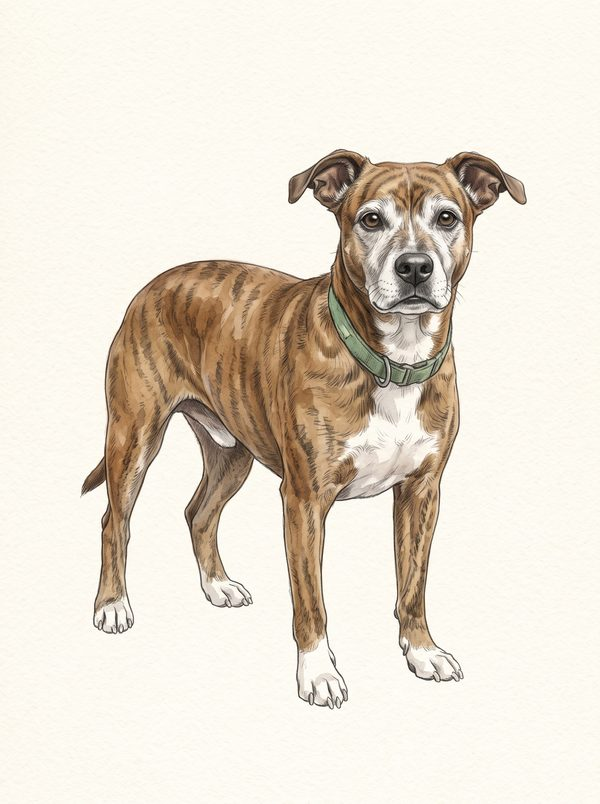
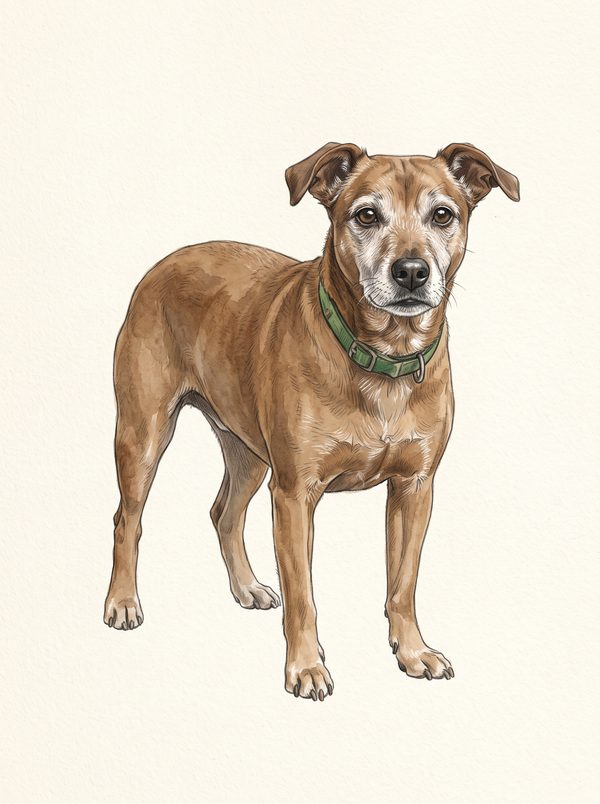
Pagina del libro con las respuestas de Reiner: titulo, correccion B y cuatro laminas rehechas

Changed region(s): [[0.12, 0.1555, 0.9, 0.9017]]

diff --git a/libro/libro.html b/libro/libro.html
@@ -6,7 +6,7 @@
 <meta name="robots" content="noindex, nofollow">
 <meta name="color-scheme" content="dark">
 <meta name="theme-color" content="#091522">
-<title>Tu libro, ilustrado — Para Reiner</title>
+<title>Cuando una huella cuenta una historia — Para Reiner</title>
 <style>
 :root{
   --night-950:#07111c;--night-900:#091522;--night-850:#0d1c2c;--night-800:#122438;
@@ -109,11 +109,11 @@ footer .serif{display:block;font-size:clamp(1.6rem,4vw,2.4rem);color:var(--sand-
 <body>
 
 <header class="hero">
-  <img src="img/escena_oi.jpg" alt="Oi y la gata Sammy mirando el cielo estrellado desde el patio de una casa en un cerro">
+  <img src="img/escena_oi.jpg" alt="Oi y la gata Samy mirando el cielo estrellado desde el patio de una casa en un cerro">
   <div class="wrap">
     <p class="label">Para Reiner</p>
-    <h1>Tu libro ya tiene imágenes.</h1>
-    <p>Ocho cuentos, ocho escenas. Cada una sale de una frase que escribiste tú.</p>
+    <h1>Cuando una huella cuenta una historia.</h1>
+    <p>Tu título, tus ocho cuentos ya corregidos y una escena para cada uno.</p>
   </div>
 </header>
 
@@ -122,15 +122,15 @@ footer .serif{display:block;font-size:clamp(1.6rem,4vw,2.4rem);color:var(--sand-
 <section>
   <div class="narrow">
     <p class="label">La propuesta</p>
-    <p class="lead">Así va quedando tu libro: ocho cuentos, cada uno con su escena, y los perros con cara propia.</p>
-    <p>Aquí está lo que ya está hecho y lo poco que necesito que decidas tú. Nada es definitivo hasta que lo apruebes: los cuentos son tuyos, y los perros también.</p>
+    <p class="lead">Así va quedando tu libro: los ocho cuentos corregidos al nivel B que elegiste, cada uno con su escena, y los perros como los describiste.</p>
+    <p>Con tus respuestas ya rehice cuatro láminas: Kimba, Oi con la Samy, LU y el Negro. Aquí está todo junto, y al final lo poco que queda por decidir.</p>
   </div>
   <div class="wrap">
     <div class="done">
       <div><strong>8</strong><span>cuentos en el volumen, como acordamos</span></div>
-      <div><strong>27.883</strong><span>palabras tuyas, leídas y medidas cuento por cuento</span></div>
+      <div><strong>27.883</strong><span>palabras corregidas al nivel B, una por una</span></div>
       <div><strong>8</strong><span>escenas ilustradas, una por cuento</span></div>
-      <div><strong>10</strong><span>perros con su retrato de referencia</span></div>
+      <div><strong>200</strong><span>arreglos de palabra en todo el libro, ni uno más</span></div>
     </div>
   </div>
 </section>
@@ -159,7 +159,7 @@ footer .serif{display:block;font-size:clamp(1.6rem,4vw,2.4rem);color:var(--sand-
         <h3>Odio de perro</h3>
         <blockquote>«hay una imagen del Gaviota con la Lucy jugando fuera del terminal. Ahí me quedé»</blockquote>
         <p>El Negro en el espacio que le construyó el hombre del terminal, junto al recordatorio de sus hermanos. El atropello no se dibuja: se cuenta por lo que dejó.</p>
-        <div class="ask"><b>Te pregunto:</b> la «imagen» del Gaviota y la Lucy, ¿es un cuadro en el recordatorio o un recuerdo que El Negro ve? La dibujé como cuadro.</div>
+        <p>Me dijiste que la imagen del Gaviota y la Lucy era un recuerdo, así que ellos están en la calle, pintados casi transparentes y sin sombra. El único sólido es el Negro.</p>
       </div>
     </article>
 
@@ -191,8 +191,8 @@ footer .serif{display:block;font-size:clamp(1.6rem,4vw,2.4rem);color:var(--sand-
         <h3>Los sueños de LU</h3>
         <blockquote>«lo encontré cerca de la cascada y fui corriendo y le puse mis patas encima»</blockquote>
         <p>El reencuentro en el Parque Ecuador. Es la única imagen del libro donde un perro cuida a otro perro: la grande que llegó a tenerlo todo y el viejo que se lo enseñó.</p>
-        <p>Los sueños de papá blanco no los dibujé. Tu texto los sostiene mejor que cualquier imagen.</p>
-        <div class="ask"><b>Te pregunto:</b> LU apoya una pata, no las dos. Me pareció más cariñoso sobre un perro enfermo. ¿Te sirve así?</div>
+        <p>Como pediste, ahora se nota que papá blanco vive en la calle: el pelo sucio y apelmazado, las costillas, el cartón y la frazada rota que le hacen de cama. LU llega limpia, y ese contraste cuenta sola la historia.</p>
+        <p>Los sueños no los dibujé. Tu texto los sostiene mejor que cualquier imagen.</p>
       </div>
     </article>
 
@@ -203,7 +203,7 @@ footer .serif{display:block;font-size:clamp(1.6rem,4vw,2.4rem);color:var(--sand-
         <h3>El compañero</h3>
         <blockquote>«solo los dos y ese balón»</blockquote>
         <p>Kimba de arquero, atajando con los dientes. Elegí el patio y no el final en la playa porque el libro ya tiene dos escenas de mar, y porque esta es la que explica el título.</p>
-        <div class="ask"><b>Te pregunto:</b> el cuento dice que Kimba es de raza, pero no cuál. ¿Qué raza es? Si no es como la dibujé, rehago su retrato y la escena.</div>
+        <p>Está rehecho con lo que me dijiste: quiltro cruzado con pastor alemán, café, delgado y grande.</p>
       </div>
     </article>
 
@@ -219,13 +219,13 @@ footer .serif{display:block;font-size:clamp(1.6rem,4vw,2.4rem);color:var(--sand-
     </article>
 
     <article class="plate">
-      <figure><img src="img/escena_oi.jpg" alt="Oi echado en el patio mirando el cielo estrellado, con la gata Sammy sentada a su lado" loading="lazy"></figure>
+      <figure><img src="img/escena_oi.jpg" alt="Oi echado en el patio mirando el cielo estrellado, con la gata Samy sentada a su lado" loading="lazy"></figure>
       <div>
         <span class="num">VIII</span>
         <h3>Cuando te espero</h3>
         <blockquote>«nos sentamos bajo la noche estrellada de Acira»</blockquote>
-        <p>La noche en que Sammy le enseña a Oi a extrañar sin alejarse. Es la única escena nocturna y el único gato del libro.</p>
-        <div class="ask"><b>Te pregunto:</b> si prefieres algo más cercano al título, puedo hacer a Oi esperando junto a la puerta.</div>
+        <p>La noche en que la Samy le enseña a Oi a extrañar sin alejarse. Es la única escena nocturna y el único gato del libro.</p>
+        <p>Oi quedó café con las canas blancas de viejo, y la Samy negra, como me dijiste.</p>
       </div>
     </article>
   </div>
@@ -235,8 +235,8 @@ footer .serif{display:block;font-size:clamp(1.6rem,4vw,2.4rem);color:var(--sand-
   <div class="wrap">
     <p class="label">Los perros</p>
     <h2 style="font-size:clamp(2.2rem,5vw,3.6rem);max-width:20ch">Casi nunca dices cómo son. Aquí va mi propuesta.</h2>
-    <p style="max-width:42rem;color:var(--sand-200);margin-top:1.2rem">Cada perro tiene un retrato fijo que se usa en su escena, para que sea el mismo en todo el libro. Separé lo que sale de tu texto de lo que propongo yo. Si alguno no es como lo imaginaste, se cambia.</p>
-    <div class="legend"><span><i style="background:#2f6b45"></i>lo dice tu cuento</span><span><i style="background:#b75738"></i>lo propongo yo</span></div>
+    <p style="max-width:42rem;color:var(--sand-200);margin-top:1.2rem">Cada perro tiene un retrato fijo que se usa en su escena, para que sea el mismo en todo el libro. En verde va lo que dice tu cuento o lo que me dijiste tú; en rojo, lo que propongo yo. Si alguno no es como lo imaginaste, se cambia.</p>
+    <div class="legend"><span><i style="background:#2f6b45"></i>lo dice tu cuento o lo dijiste tú</span><span><i style="background:#b75738"></i>lo propongo yo</span></div>
 
     <div class="dogs">
       <div class="dog"><img src="img/perro_cholito.jpg" alt="Cholito, perro grande color arena con collar de cuero" loading="lazy"><div><h3>Cholito</h3><p class="story">Razón de Perro</p><p class="t">Gigante, con collar de paseo.</p><p class="p">Mestizo, color arena, una oreja doblada.</p></div></div>
@@ -246,9 +246,9 @@ footer .serif{display:block;font-size:clamp(1.6rem,4vw,2.4rem);color:var(--sand-
       <div class="dog"><img src="img/perro_merlin.jpg" alt="Merlín, perro muy grande gris oscuro con el pecho blanco" loading="lazy"><div><h3>Merlín</h3><p class="story">La Esperanza de Merlín</p><p class="t">Muy grande, más que los perros del puerto.</p><p class="p">Gris acero, pecho blanco.</p></div></div>
       <div class="dog"><img src="img/perro_lu.jpg" alt="LU, San Bernardo blanca con manchas castañas" loading="lazy"><div><h3>LU</h3><p class="story">Los sueños de LU</p><p class="t">San Bernardo, hembra.</p><p class="p">El patrón clásico de la raza.</p></div></div>
       <div class="dog"><img src="img/perro_papa.jpg" alt="Papá blanco, perro viejo y flaco de pelaje blanco y ojos nublados" loading="lazy"><div><h3>Papá blanco</h3><p class="story">Los sueños de LU</p><p class="t">Blanco, muy viejo, enfermo al final.</p><p class="p">Mestizo mediano, una pelada en el hocico.</p></div></div>
-      <div class="dog"><img src="img/perro_kimba.jpg" alt="Kimba, perro grande negro y fuego con collar rojo" loading="lazy"><div><h3>Kimba</h3><p class="story">El compañero</p><p class="t">Porte formidable, de raza, con collar.</p><p class="p">Negro y fuego, collar rojo. La raza, a confirmar.</p></div></div>
+      <div class="dog"><img src="img/perro_kimba.jpg" alt="Kimba, perro grande negro y fuego con collar rojo" loading="lazy"><div><h3>Kimba</h3><p class="story">El compañero</p><p class="t">Porte formidable, con collar; quiltro cruzado con pastor alemán, café, delgado y grande.</p><p class="p">Collar rojo.</p></div></div>
       <div class="dog"><img src="img/perro_roberto.jpg" alt="Roberto, perro chico blanco con una mancha café en el lomo y collar azul" loading="lazy"><div><h3>Roberto</h3><p class="story">El amor de Roberto</p><p class="t">Chico, de casa, «lindo del vecindario».</p><p class="p">Blanco con mancha café, collar azul.</p></div></div>
-      <div class="dog"><img src="img/perro_oi.jpg" alt="Oi, perro mediano atigrado con patas blancas, hocico canoso y collar verde" loading="lazy"><div><h3>Oi</h3><p class="story">Cuando te espero</p><p class="t">Perro de casa que se va poniendo viejo.</p><p class="p">Atigrado, patas blancas, collar verde.</p></div></div>
+      <div class="dog"><img src="img/perro_oi.jpg" alt="Oi, perro mediano atigrado con patas blancas, hocico canoso y collar verde" loading="lazy"><div><h3>Oi</h3><p class="story">Cuando te espero</p><p class="t">Perro de casa que se va poniendo viejo; café con rasgos de vejez blancos.</p><p class="p">Collar verde.</p></div></div>
     </div>
   </div>
 </section>
@@ -270,18 +270,23 @@ footer .serif{display:block;font-size:clamp(1.6rem,4vw,2.4rem);color:var(--sand-
 
 <section>
   <div class="narrow">
-    <p class="label">Lo que necesito de ti</p>
-    <h2 style="font-size:clamp(2rem,4.6vw,3.2rem)">Con estas respuestas, sigo.</h2>
-    <p style="color:var(--sand-200);margin-top:1rem">Me las puedes mandar por WhatsApp, con el número y un sí, un no o lo que quieras cambiar.</p>
+    <p class="label">Lo que ya está decidido</p>
+    <h2 style="font-size:clamp(2rem,4.6vw,3.2rem)">Tus respuestas, aplicadas.</h2>
     <ol class="decisions">
-      <li><div><strong>¿Te parece bien que las ilustraciones sean hechas con IA?</strong><span>Se declara en los créditos. Si prefieres a un ilustrador, estas sirven como guía para encargarlo.</span></div></li>
-      <li><div><strong>¿Los perros son como los imaginaste?</strong><span>Mira la sección de arriba. Basta con decirme cuál cambiar y cómo.</span></div></li>
-      <li><div><strong>¿De qué raza es Kimba?</strong><span>El cuento dice que es de raza, pero no cuál.</span></div></li>
-      <li><div><strong>¿La gata se escribe Samy o Sammy?</strong><span>En el texto aparecen las dos formas.</span></div></li>
-      <li><div><strong>El nivel de corrección.</strong><span>Te mando aparte el mismo párrafo tuyo en cuatro versiones, de nada tocado a pulido. Eliges una letra y con esa corrijo el libro entero. Ninguna cambia lo que cuentas.</span></div></li>
-      <li><div><strong>¿El primer párrafo de El amor de Roberto queda tal cual?</strong><span>Me dijiste que no lo reescribirías; solo confirmo que lo dejamos así.</span></div></li>
-      <li><div><strong>Las tres preguntas de las láminas</strong><span>El cuadro de Odio de perro, la pata de LU y la escena de Oi.</span></div></li>
-      <li><div><strong>El título del libro.</strong><span>Tómate tu tiempo. Si no se te ocurre otro, <cite>Razón de Perro</cite> funciona bien.</span></div></li>
+      <li><div><strong>Ilustraciones hechas con IA: sí.</strong><span>Va declarado en los créditos del libro.</span></div></li>
+      <li><div><strong>Corrección nivel B, hecha.</strong><span>Los ocho cuentos. Son 200 arreglos de palabra en 27.883 palabras: preposiciones que faltaban, concordancias y erratas. Lo demás es puntuación, tildes y párrafos. Tu forma de hablar se queda: los chilenismos, «Acira» y el presente en los momentos de tensión.</span></div></li>
+      <li><div><strong>Kimba, rehecho.</strong><span>Quiltro cruzado con pastor alemán, café, delgado y grande.</span></div></li>
+      <li><div><strong>Oi y la Samy, rehechos.</strong><span>Oi café con canas blancas; la gata negra, y se escribe Samy en todo el libro.</span></div></li>
+      <li><div><strong>LU, rehecha.</strong><span>Ahora se nota que papá blanco está en situación de calle.</span></div></li>
+      <li><div><strong>El Negro, rehecho.</strong><span>Sus hermanos aparecen como recuerdo, no como un cuadro.</span></div></li>
+      <li><div><strong>El primer párrafo de El amor de Roberto, corregido.</strong><span>Me dijiste «mejorar» y le apliqué la misma corrección que al resto.</span></div></li>
+    </ol>
+
+    <p class="label" style="margin-top:3.5rem">Lo que queda</p>
+    <ol class="decisions">
+      <li><div><strong>Ese primer párrafo, ¿solo bien escrito o también más suave?</strong><span>Habla del celo de las perras de forma bien directa. Corregirlo ya está; suavizarlo es otra cosa y no lo hago sin que me lo digas.</span></div></li>
+      <li><div><strong>Doce palabras que elegí yo.</strong><span>En doce lugares el original quedaba cortado y tuve que completar. Por ejemplo, «palabra que nunca entendí su ,» quedó como «su significado». Te las paso en una lista para que las apruebes o las cambies.</span></div></li>
+      <li><div><strong>El orden de los cuentos.</strong><span>Tengo una propuesta, pero la última palabra es tuya.</span></div></li>
     </ol>
   </div>
 </section>
